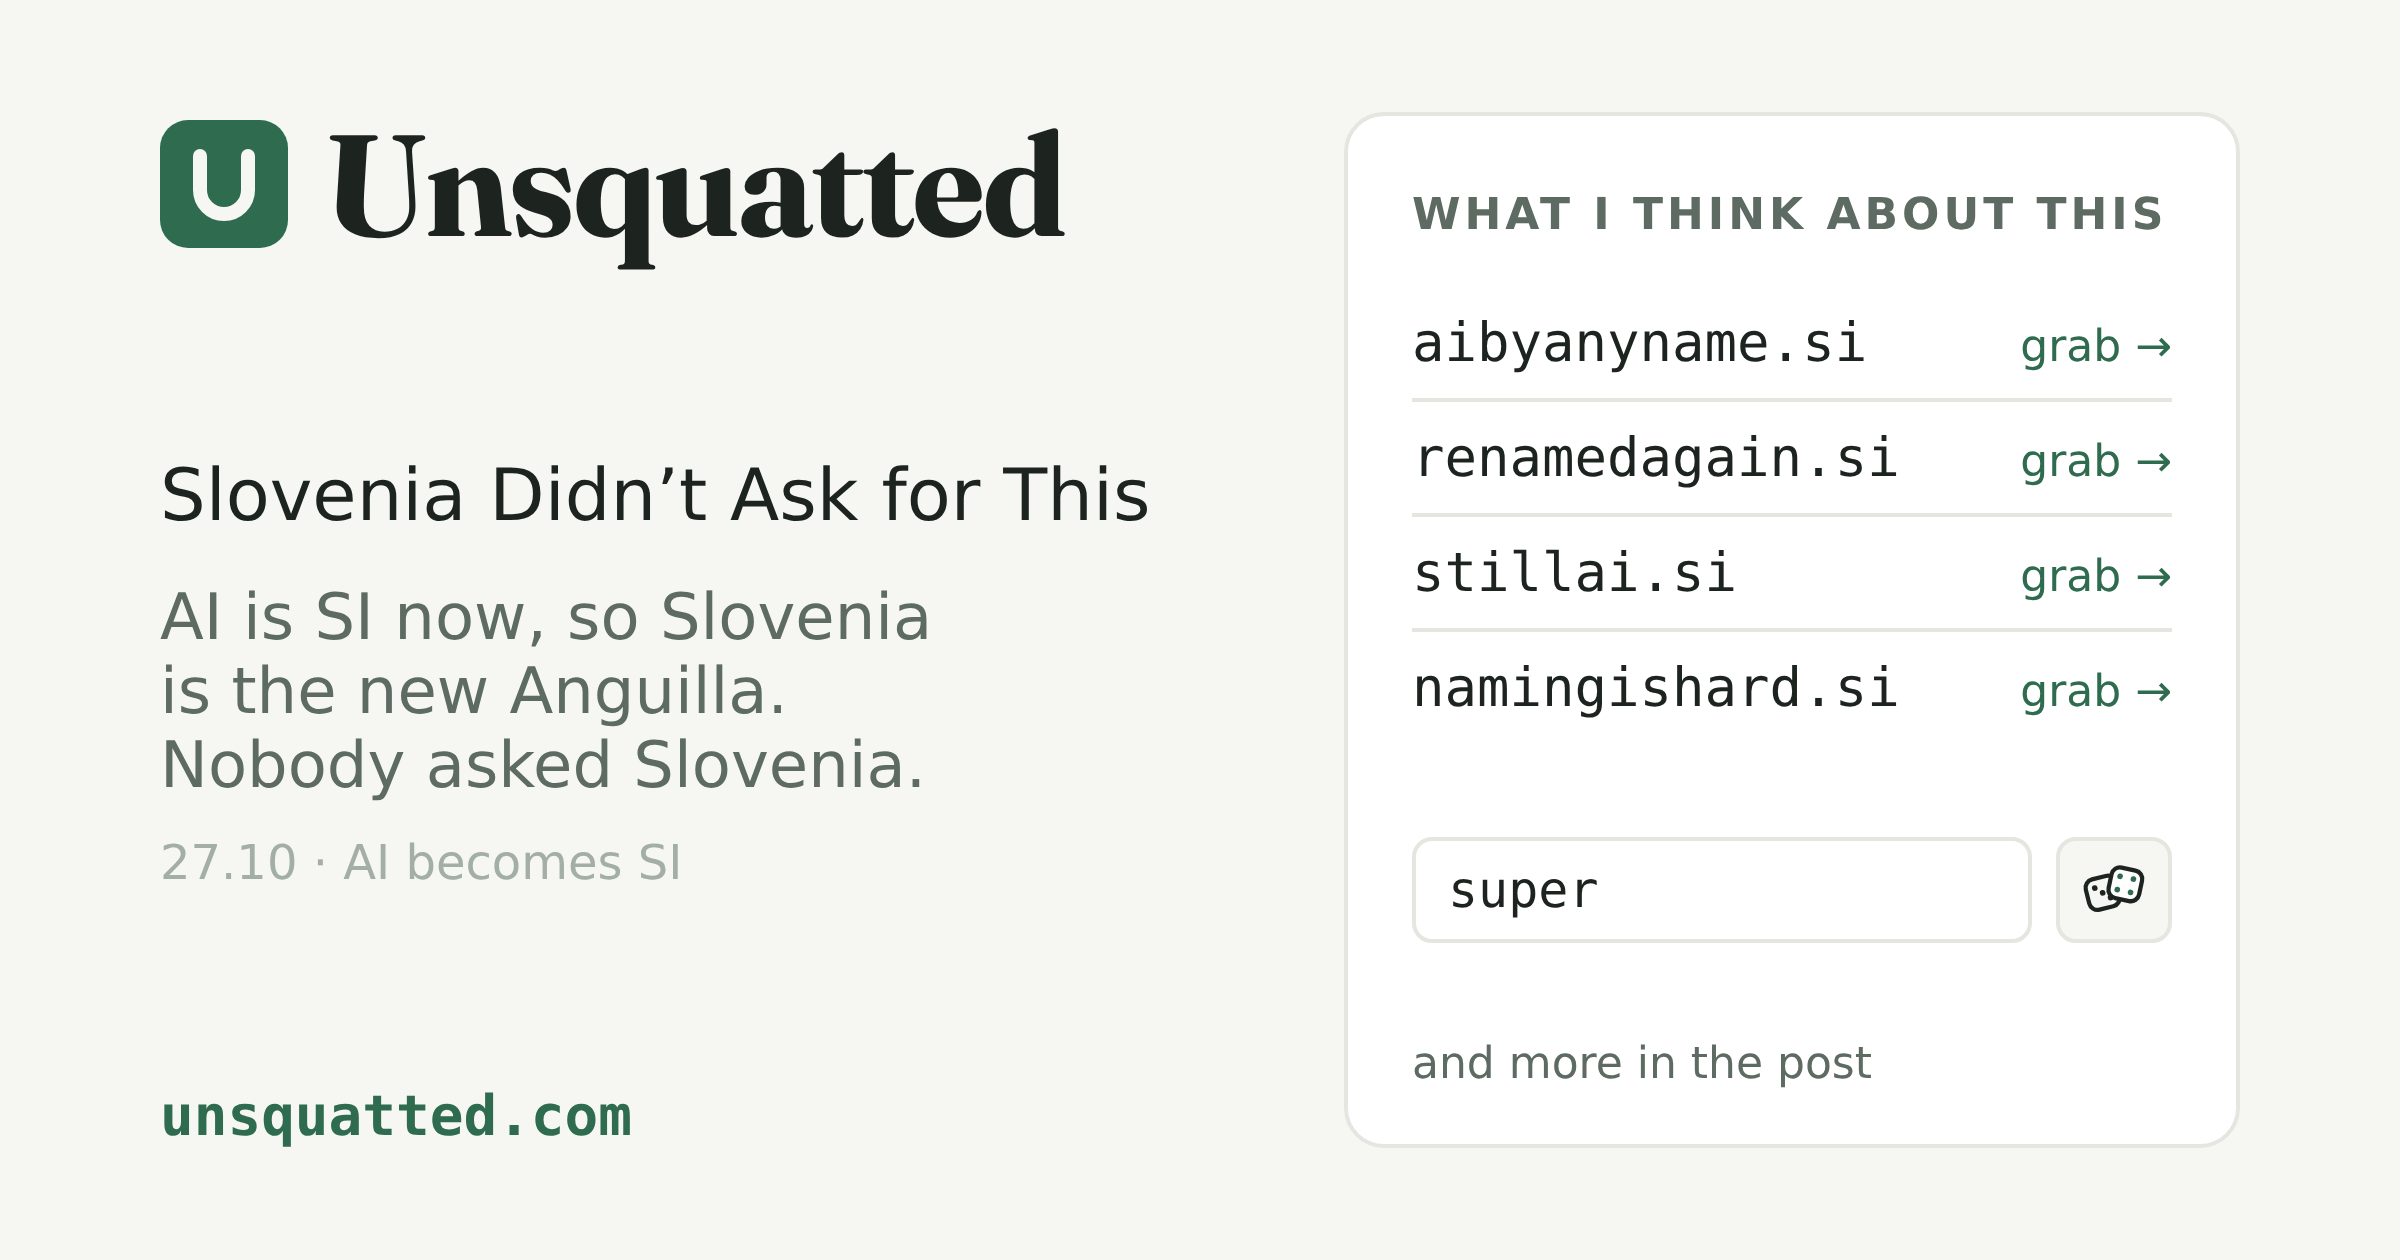
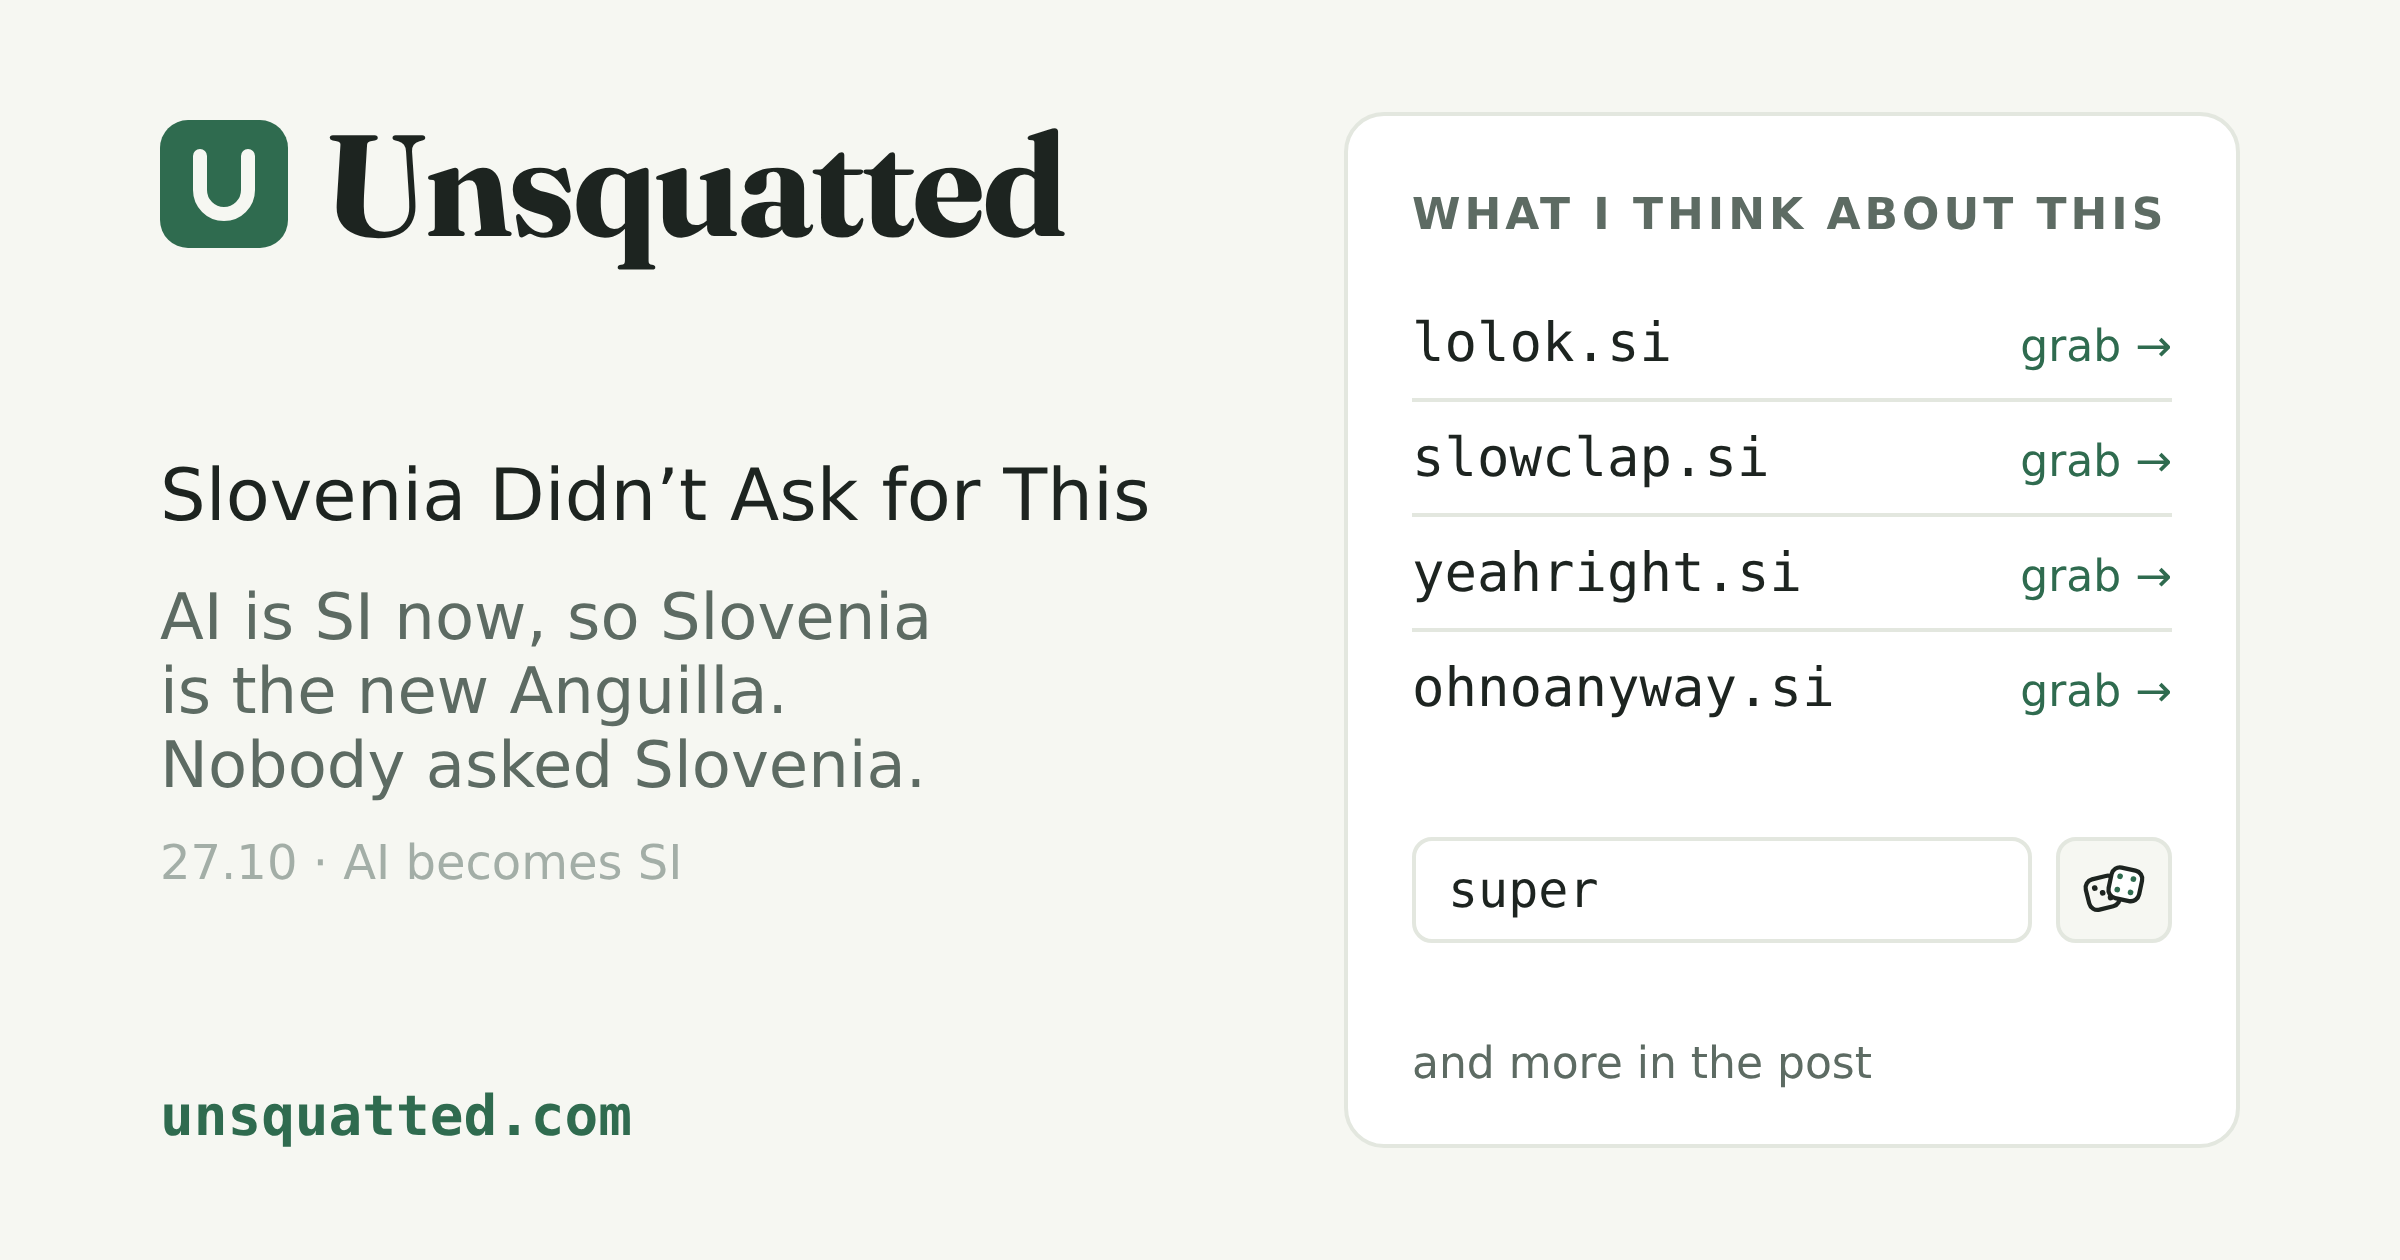
feat(unsquatted): the .si post's first widget is the Unnamed's reaction
"What I think about this" now answers the question in names that react
rather than names about the rename: lolok.si (the operator's find),
slowclap.si, yeahright.si, ohnoanyway.si. The four rename jokes leave
the post and the catalogue for the ledger, with this run's unpicked
free names; the post's card is re-rendered.

Claude-Session: https://claude.ai/code/session_01DaohkFTxZnZa8Hj8p1qSsh

diff --git a/sites/unsquatted/public/blog/super-intelligence.md b/sites/unsquatted/public/blog/super-intelligence.md
@@ -22,19 +22,19 @@ Want to know what I think about it? Here, in the only language I’m fluent in:
 
 :::domains{label="What I think about this"}
 
-- aibyanyname.si
-- renamedagain.si
-- stillai.si
-- namingishard.si
+- lolok.si
+- slowclap.si
+- yeahright.si
+- ohnoanyway.si
 
 :::
 
-`aibyanyname.si` is Juliet’s rose: call it what you like, it does the same
-thing.
-`renamedagain.si` is because this was the third time; more on that in a minute.
-`stillai.si` is what it is underneath, whatever the letters say. `namingishard.si` is the one thing every programmer agrees on. All four
-were free when I wrote this, and the verdicts are live, so you’ll know if that’s
-changed. The rest of this post is the long version.
+`lolok.si` was my first reaction, and I’m told it’s most people’s.
+`slowclap.si` is for the timing, which, as you’ll see in a minute, was not the
+first time. `yeahright.si` is for the idea that a thing gets smarter when you
+rename it; I run a site about names, and I wish. `ohnoanyway.si` is how Slovenia
+took it. All four were free when I wrote this, and the verdicts are live, so
+you’ll know if that’s changed. The rest of this post is the long version.
 
 ## Two letters after the dot
 
